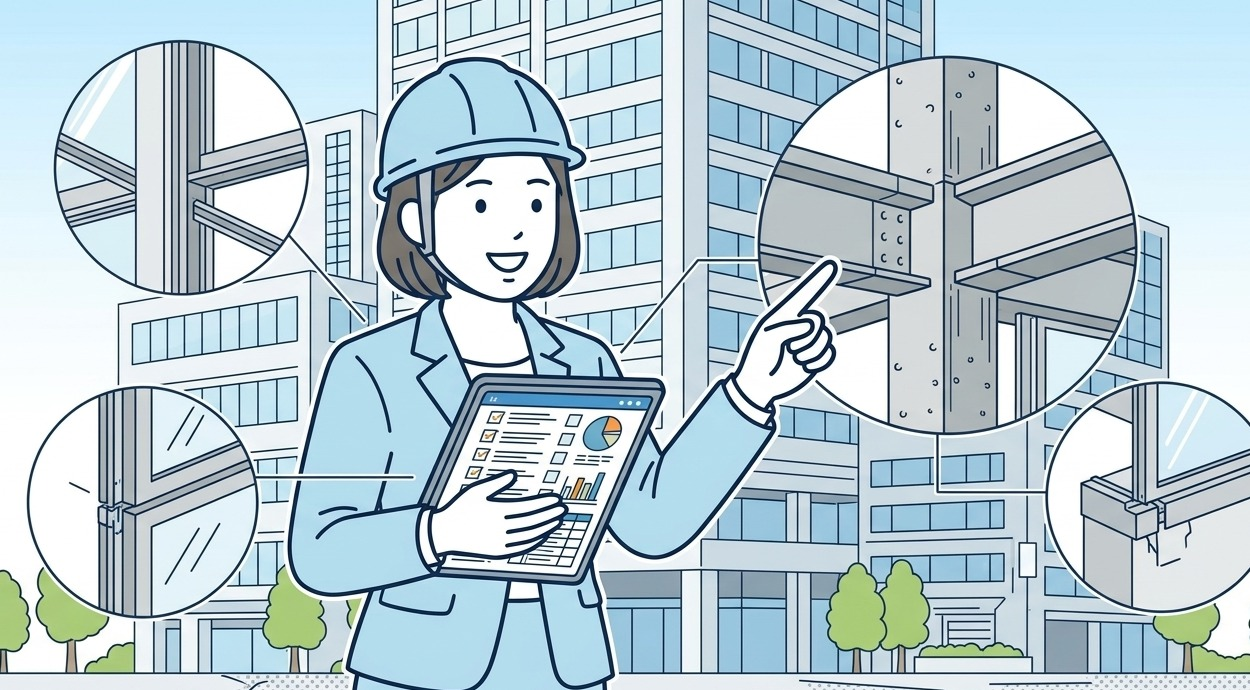
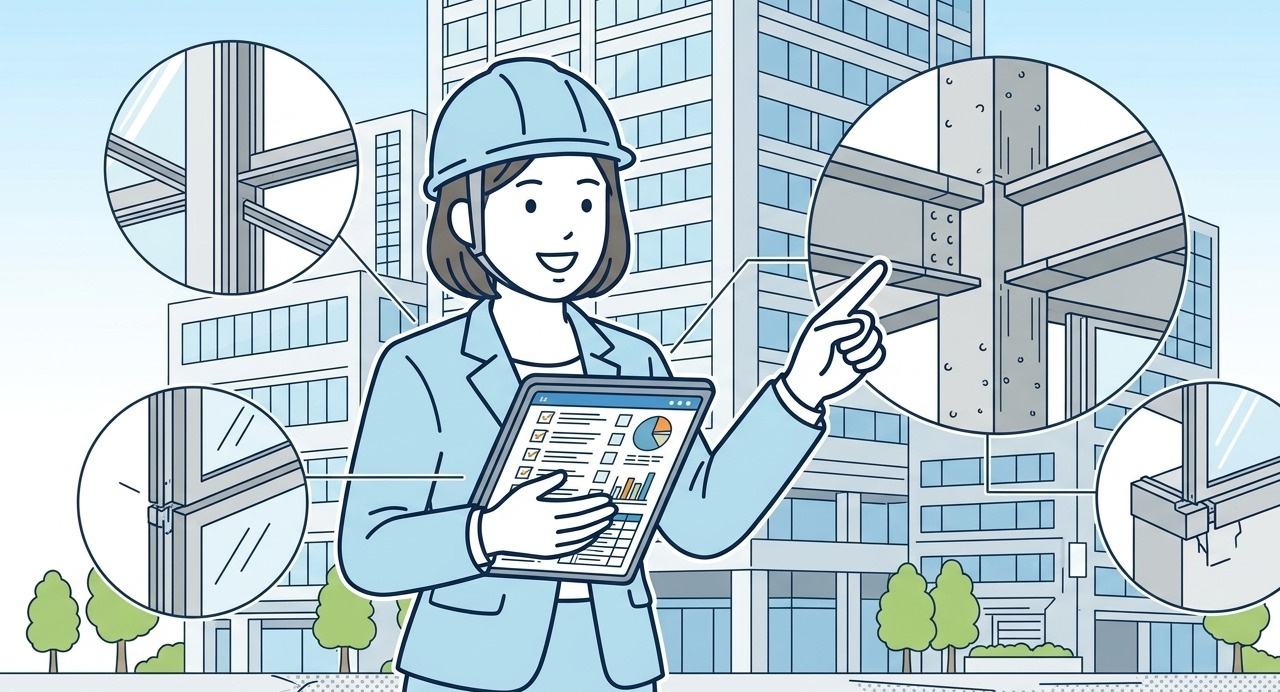
料金カードを作り直し：画像枠をwidth:100%で敷き右側の隙間を解消、画像も横長に再トリミング(v3)

diff --git a/index.html b/index.html
@@ -344,22 +344,28 @@
     <p class="price__lead">建物の用途・規模・階数によって費用は変動します。まずは無料お見積りで正確な金額をご確認ください。</p>
     <div class="price-cards">
       <div class="price-card reveal">
-        <img class="price-card__img" src="assets/img/price1.jpg?v=2" alt="特定建築物定期調査のイメージ（外壁のひび割れを調べる点検員）" loading="lazy">
-        <h3>特定建築物定期調査</h3>
-        <p class="price-card__yen"><small>目安</small> <b>50,000</b><small>円〜</small></p>
-        <p class="price-card__note">建物の規模・用途により変動します</p>
+        <div class="price-card__media"><img src="assets/img/price1.jpg?v=3" alt="特定建築物定期調査のイメージ（点検員）" loading="lazy"></div>
+        <div class="price-card__body">
+          <h3>特定建築物定期調査</h3>
+          <p class="price-card__yen"><small>目安</small> <b>50,000</b><small>円〜</small></p>
+          <p class="price-card__note">建物の規模・用途により変動します</p>
+        </div>
       </div>
       <div class="price-card reveal">
-        <img class="price-card__img" src="assets/img/price2.jpg?v=2" alt="防火設備定期検査のイメージ（建物の各部を確認する点検員）" loading="lazy">
-        <h3>防火設備定期検査</h3>
-        <p class="price-card__yen"><small>目安</small> <b>30,000</b><small>円〜</small></p>
-        <p class="price-card__note">設備の数・種類により変動します</p>
+        <div class="price-card__media"><img src="assets/img/price2.jpg?v=3" alt="防火設備定期検査のイメージ（点検員）" loading="lazy"></div>
+        <div class="price-card__body">
+          <h3>防火設備定期検査</h3>
+          <p class="price-card__yen"><small>目安</small> <b>30,000</b><small>円〜</small></p>
+          <p class="price-card__note">設備の数・種類により変動します</p>
+        </div>
       </div>
       <div class="price-card reveal">
-        <img class="price-card__img" src="assets/img/price3.jpg?v=2" alt="建築設備定期検査のイメージ（非常用照明・電源回路を点検する様子）" loading="lazy">
-        <h3>建築設備定期検査</h3>
-        <p class="price-card__yen"><small>目安</small> <b>40,000</b><small>円〜</small></p>
-        <p class="price-card__note">設備構成により変動します</p>
+        <div class="price-card__media"><img src="assets/img/price3.jpg?v=3" alt="建築設備定期検査のイメージ（点検の様子）" loading="lazy"></div>
+        <div class="price-card__body">
+          <h3>建築設備定期検査</h3>
+          <p class="price-card__yen"><small>目安</small> <b>40,000</b><small>円〜</small></p>
+          <p class="price-card__note">設備構成により変動します</p>
+        </div>
       </div>
     </div>
     <p class="price__disclaimer">

diff --git a/assets/css/style.css b/assets/css/style.css
@@ -519,14 +519,20 @@ a { color: inherit; text-decoration: none; }
 .price-cards { display:grid; grid-template-columns: repeat(3,1fr); gap: 20px; }
 .price-card {
   background:#fff; color: var(--c-text); border-radius: var(--radius);
-  padding: 30px 24px; text-align:center; box-shadow: var(--shadow);
+  padding: 0; text-align:center; box-shadow: var(--shadow);
   overflow: hidden;
 }
 .price-card__ph { width:72px; height:72px; margin: 0 auto 14px; }
-.price-card__img {
-  display:block; width: calc(100% + 48px); height: 180px; object-fit: cover;
-  margin: -30px -24px 18px; background: linear-gradient(160deg,#eef5fd,#e2eefb);
+/* 画像枠：カード幅いっぱいに敷く（右側の隙間を解消） */
+.price-card__media {
+  width: 100%; height: 190px;
+  background: linear-gradient(160deg,#eef5fd,#e2eefb);
 }
+.price-card__media img {
+  width: 100%; height: 100%; object-fit: cover; object-position: center;
+  display: block;
+}
+.price-card__body { padding: 24px 24px 28px; }
 .price-card h3 { font-size: 17px; margin: 0 0 6px; font-weight:900; }
 .price-card__yen { font-size: 14px; color: var(--c-text-sub); }
 .price-card__yen b { font-size: 30px; color: var(--c-orange); font-weight:900; }
